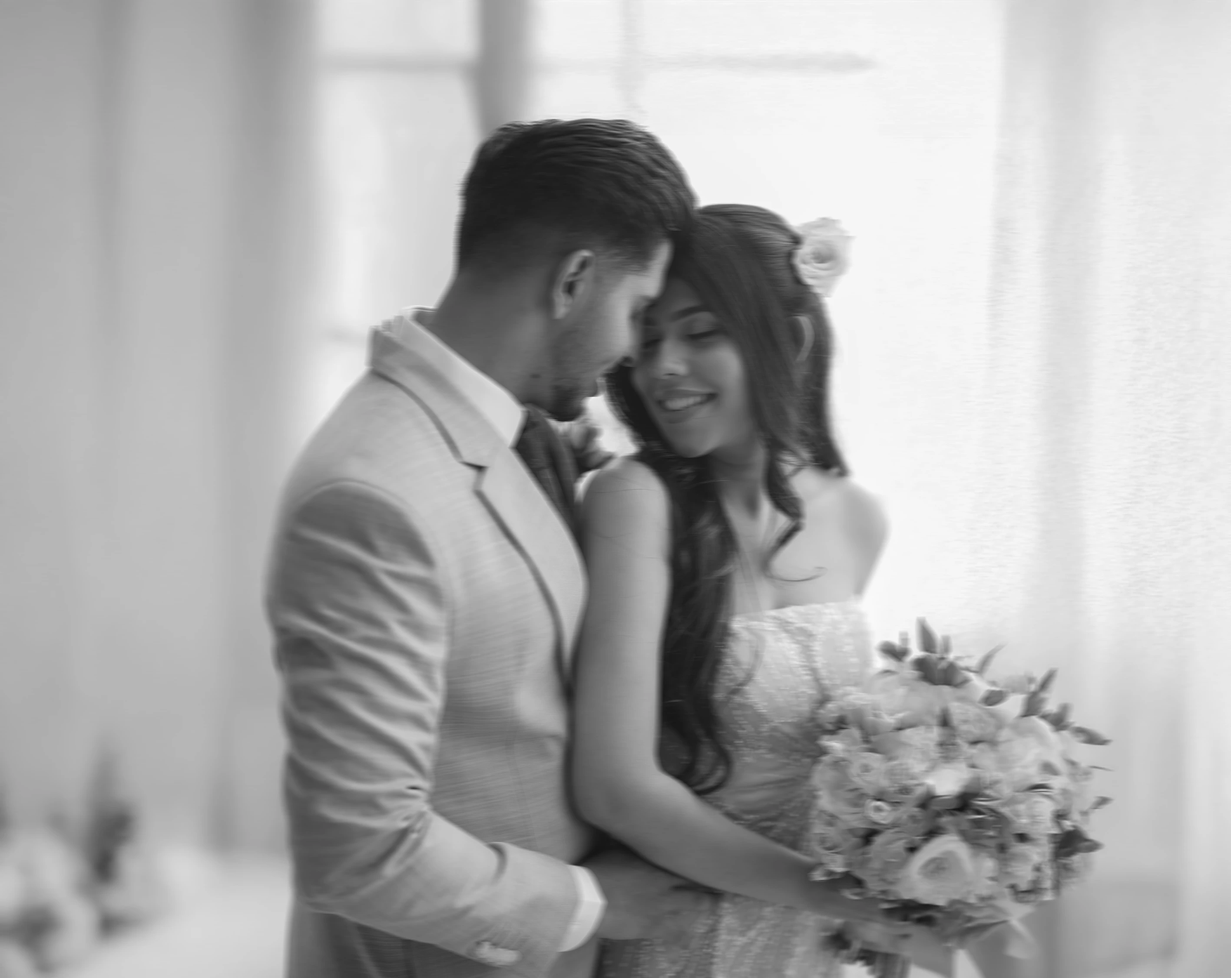
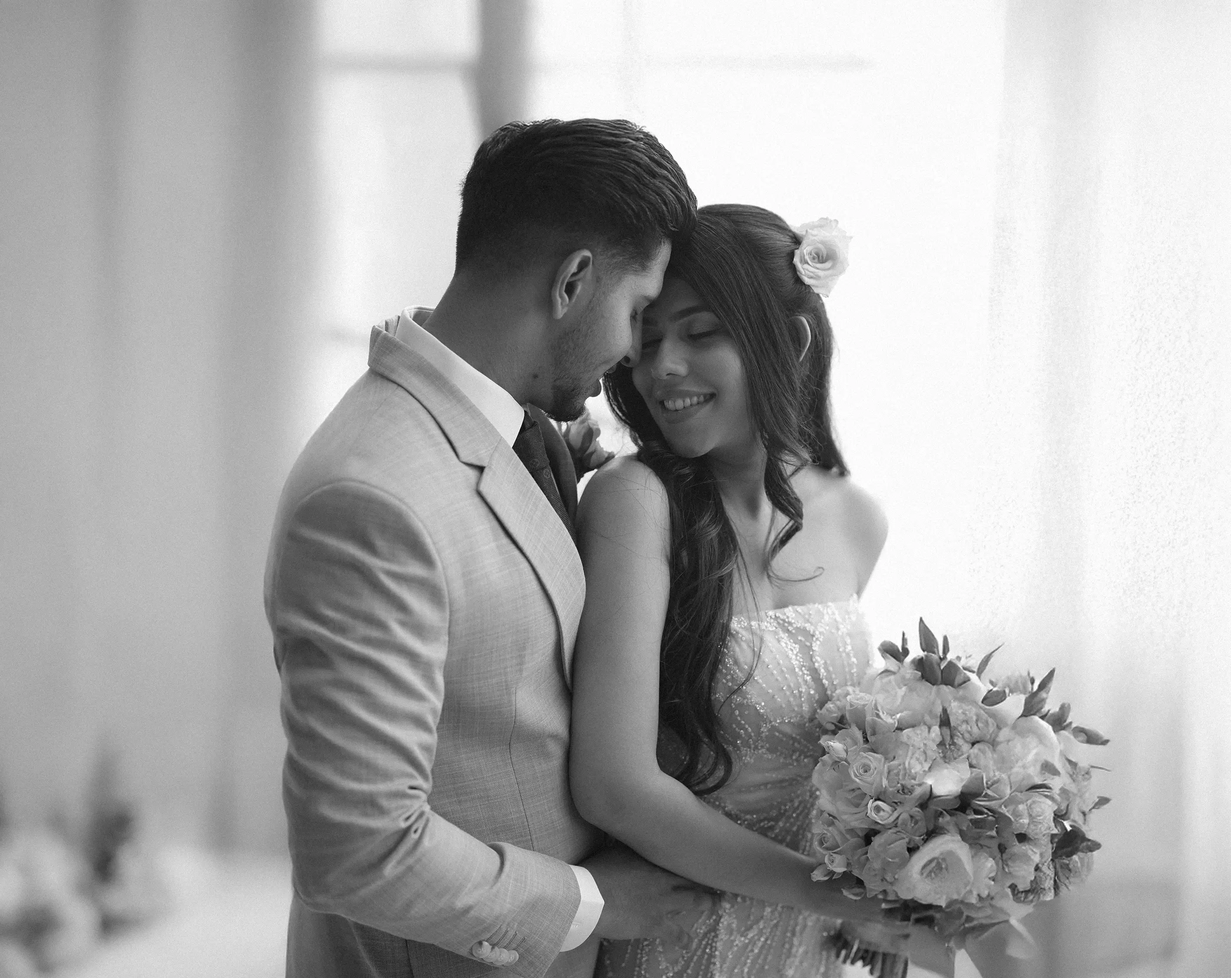
add gallery view to preshoot page and update schedule left imge

diff --git a/app/preshoot/page.js b/app/preshoot/page.js
@@ -1,9 +1,28 @@
 import PreshootHero from "@/components/PreshootHero";
+import Gallery from "@/components/Gallery";
 
-export default function EngagementPage() {
+const preshootImages = [
+  { src: "/preshoot/pre1.webp", alt: "Preshoot 01" },
+  { src: "/preshoot/pre2.webp", alt: "Preshoot 02" },
+  { src: "/preshoot/pre3.webp", alt: "Preshoot 03" },
+  { src: "/preshoot/pre4.webp", alt: "Preshoot 04" },
+  { src: "/preshoot/pre5.webp", alt: "Preshoot 05" },
+  { src: "/preshoot/pre6.webp", alt: "Preshoot 06" },
+  { src: "/preshoot/pre12.webp", alt: "Preshoot 12" },
+  { src: "/preshoot/pre7.webp", alt: "Preshoot 07" },
+  { src: "/preshoot/pre8.webp", alt: "Preshoot 08" },
+  { src: "/preshoot/pre9.webp", alt: "Preshoot 09" },
+  { src: "/preshoot/pre10.webp", alt: "Preshoot 10" },
+  { src: "/preshoot/pre11.webp", alt: "Preshoot 11" },
+
+  // add as many as you need…
+];
+
+export default function PreshootPage() {
   return (
     <main>
       <PreshootHero />
+      <Gallery images={preshootImages} />
     </main>
   );
 }

diff --git a/components/Gallery.jsx b/components/Gallery.jsx
@@ -1,0 +1,23 @@
+// components/Gallery.jsx
+import Image from "next/image";
+
+export default function Gallery({ images = [] }) {
+  return (
+    <section className="bg-[#f8f6f2]">
+      <div className="grid grid-cols-2 md:grid-cols-3 lg:grid-cols-4 gap-0">
+        {images.map(({ src, alt }, i) => (
+          <div key={i} className="relative w-full aspect-[3/4]">
+            <Image
+              src={src}
+              alt={alt || ""}
+              fill
+              sizes="(max-width:768px) 100vw, (max-width:1200px) 50vw, 25vw"
+              className="object-cover"
+              priority={i < 4}
+            />
+          </div>
+        ))}
+      </div>
+    </section>
+  );
+}
